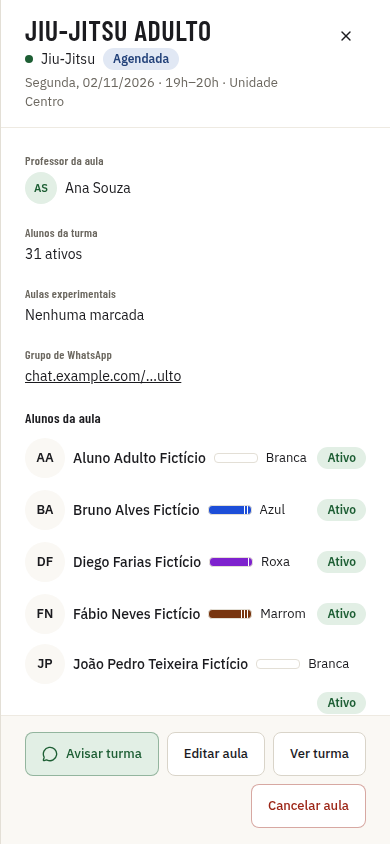
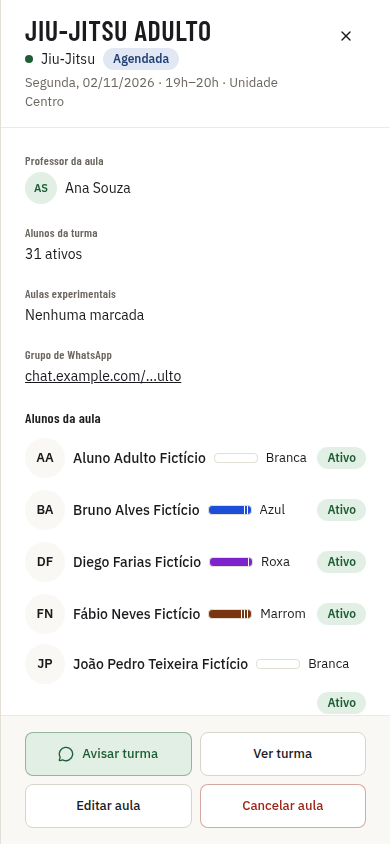
#473: Aula: painel, editar, cancelar, corrigir, avisar turma e aula avulsa no visual do canvas

diff --git a/frontend/e2e/comunicados.spec.ts b/frontend/e2e/comunicados.spec.ts
@@ -21,14 +21,14 @@ test("@critical Cancelamento de aula com aviso à turma", async ({ page }) => {
   await cancel.getByRole("button", { name: "Cancelar aula" }).click();
   await expect(page.getByText("Aviso pronto")).toBeVisible();
 
-  await page.getByRole("link", { name: "Avisar turma" }).click();
-  await expect(page.getByRole("heading", { name: "Novo comunicado", level: 1 })).toBeVisible();
-  await expect(page.getByLabel("Destino")).toHaveValue(/^CLASS:/);
-  await expect(page.getByLabel("Tipo")).toHaveValue("CANCELED_CLASS");
-  await expect(page.getByLabel("Título")).toHaveValue("Aula cancelada");
-  await expect(page.getByLabel("Texto")).toHaveValue(/Jiu-Jitsu Adulto do dia \d{2}\/\d{2}\/\d{4}, às \d{2}:\d{2}, foi cancelada/);
-  await expect(page.getByText(/^Este aviso vai para \d+ pessoas$/)).toBeVisible();
-  await page.getByRole("button", { name: "Enviar comunicado" }).click();
+  await page.getByRole("button", { name: "Avisar turma" }).click();
+  const notice = page.getByRole("dialog", { name: "Avisar turma" });
+  await expect(notice.getByLabel("Destino")).toHaveValue(/^Turma Jiu-Jitsu Adulto/);
+  await expect(notice.getByLabel("Tipo")).toHaveValue("CANCELED_CLASS");
+  await expect(notice.getByLabel("Título")).toHaveValue("Aula cancelada");
+  await expect(notice.getByLabel("Texto")).toHaveValue(/Jiu-Jitsu Adulto do dia \d{2}\/\d{2}\/\d{4}, às \d{2}:\d{2}, foi cancelada/);
+  await expect(notice.getByText(/^Vai para \d+ pessoas?/)).toBeVisible();
+  await notice.getByRole("button", { name: "Enviar agora" }).click();
 
   await expect(page.getByRole("heading", { name: "Comunicados", level: 1 })).toBeVisible();
   await expect(page.getByText("Comunicado enviado.")).toBeVisible();

diff --git a/specs/itens/473-aula-canvas.md b/specs/itens/473-aula-canvas.md
@@ -127,6 +127,11 @@ Regressão: `npm run test:cov` (frontend) → 2276 passam, 9 falham: 2 eram do i
 Desvios (parte D): `agenda-aula-avulsa` continua com `limiteCanvas` (0,52, medido a 47,5%) porque passa de 30%; o CA14 pedia sem limite, mas aceita limite com motivo; o caso `aula-editar-seguintes` não tem aula com `followingEdited` > 0 no MSW (semear uma edição mudaria as referências da agenda), então o alerta amarelo de aulas alteradas à mão fica coberto só pelo teste (CA5) e não pelo print; o limite dos seis casos não cita uma issue que o remova, porque a divergência é o fundo do fluxo (gaveta atrás) e dados do MSW, e não há issue aberta para isso; sugerir ao dono.
 Referências visuais: regeradas `agenda-aula-avulsa-{1440,390}-{claro,escuro}.png`, `agenda-painel-professor-390-{claro,escuro}.png` (rodapé em duas linhas) e novas `aula-cancelar`, `aula-editar`, `aula-editar-seguintes`, `aula-corrigir`, `aula-avisar-turma` (`-{1440,390}-{claro,escuro}.png`), todas em `frontend/visual/referencias/`.
 
+### Correção da entrega
+- e2e `comunicados.spec.ts` ("Cancelamento de aula com aviso à turma") procurava o link da página antiga; agora usa o botão "Avisar turma", a janela e "Enviar agora" — arquivos: `frontend/e2e/comunicados.spec.ts` — prova: `npx playwright test e2e/comunicados.spec.ts` → 1 passou.
+- visual `agenda-painel 390 claro/escuro` (0,01 de pixels diferentes) — referências regeradas no container — arquivos: `frontend/visual/referencias/agenda-painel-390-claro.png`, `agenda-painel-390-escuro.png` — prova: `npm run test:visual:docker -- --update-snapshots -g "agenda-painel"` → 8 passaram.
+Referências visuais: `agenda-painel-390-claro.png`, `agenda-painel-390-escuro.png`.
+
 ## Verificação
 
 ### Rodada 1 — CORRIGIR_CODIGO — 2026-11-11, estado 78c37d826e049ffd6f3499ae02f253e5842a0f77
@@ -183,7 +188,26 @@ Achados:
 ## Entrega
 
 - **O que muda:** painel da aula, editar (esta aula e as seguintes), cancelar, corrigir professor, avisar turma (janela sobre a agenda, com Enviar agora e Agendar; envio por `POST /announcements`) e Nova aula avulsa, no visual do canvas, em 1440 e 390 px, claro e escuro. Contrato (`docs/openapi.yaml`), especificação 06 e MSW atualizados no mesmo PR.
-- **Verificação:** rodada 3 OK, estado `77cb8c23b8141944fa622538d8441612c3e1329c` (o diff até o commit só toca este arquivo). `visual:canvas -- --exige`: 127 comparadas, 0 reprovadas. Vitest, typecheck e lint sem erro; ITs `AgendaLesson*IT` e contrato sem falha na rodada 2.
+- **Verificação:** rodada 4 OK, estado `c60a70aecc0b8793e597324dce4e7e1a6ca85472` (o diff até o commit só toca este arquivo e as correções de CI). `visual:canvas -- --exige`: 127 comparadas, 0 reprovadas (rodada 3). Vitest, typecheck e lint sem erro; e2e agenda e comunicados passam; ITs `AgendaLesson*IT` e contrato sem falha na rodada 2.
 - **Decisões:** D6 (avisar turma passa de página para janela sobre a agenda; a página continua para os outros usos; Agendar mostra data e hora no lugar de outra janela). Autonomia 4 para as divergências de canvas.
 - **Limitações:** seis `limiteCanvas` (`agenda-aula-avulsa` 0,52; `aula-cancelar` 0,60; `aula-editar` 0,58; `aula-editar-seguintes` 0,58; `aula-corrigir` 0,68; `aula-avisar-turma` 0,56), todos citando a #560, cujo "Pronto quando" traz a remoção. Canvas só a 1440 px nos casos da agenda, e o alerta de `followingEdited` fica fora do print (registrado na #560).
 - **Regressão:** a regressão completa local (`verify`, `test:cov`, `e2e:full`) não foi rodada nesta fase, porque a base não avançou e a rodada 3 não a repetiu; o `ci-gate` do PR roda `verify`, `test:cov` e `e2e` e é a prova de merge.
+- **Falhas no CI do commit a554fe9 (run 43129917888, PR #561), corrigidas neste commit:**
+  - `e2e` (`frontend/e2e/comunicados.spec.ts`, "Cancelamento de aula com aviso à turma"): `locator.click: Test timeout of 30000ms exceeded` esperando `getByRole('link', { name: 'Avisar turma' })`. O teste procurava o link da página antiga; a janela da D6 é um botão. Trocado para `getByRole("button")`, `dialog` "Avisar turma" e "Enviar agora".
+  - `visual` (`visual/telas.visual.ts`, `agenda-painel 390 claro` e `escuro`): `toHaveScreenshot` com 1454 e 1476 pixels diferentes (0,01). Referências `frontend/visual/referencias/agenda-painel-390-*.png` regeradas no container (`-- --update-snapshots -g "agenda-painel"`, 8 passam); só as duas desta tela mudaram.
+
+### Rodada 4 — OK — 2026-11-11, estado c60a70aecc0b8793e597324dce4e7e1a6ca85472
+
+Verificação da correção da entrega (falhas do CI do PR #561). Diff desde o commit a554fe9: `frontend/e2e/comunicados.spec.ts`, duas referências `agenda-painel-390-{claro,escuro}.png` e este arquivo.
+
+| Critério | Status | Evidência |
+|---|---|---|
+| CA1 a CA13 | PASSOU (mantido da rodada 3, reexecutado) | vitest agenda, announcements, visual/casos: 10 arquivos, 249 passam; `npm run typecheck` e `npm run lint` sem erro |
+| CA8 (fluxo Avisar turma ponta a ponta) | PASSOU | `npx playwright test e2e/comunicados.spec.ts`: 1 passou (botão, janela "Avisar turma", "Enviar agora") |
+| CA12/CA13 (agenda e2e) | PASSOU | `npx playwright test e2e/agenda.spec.ts`: 2 passaram |
+| CA14 | PASSOU (mantido da rodada 3) | `agenda-painel` 390 claro/escuro: `npm run test:visual:docker -- -g "agenda-painel"` 8 passaram com as referências regeradas; só as referências do painel desta tela mudaram |
+
+Comandos: os acima. Achados do CI (e2e e visual) resolvidos. Back-end e regressão completa não rodados de novo: nada mudou neles; o `ci-gate` do PR é a prova de merge.
+Achados obrigatórios: nenhum.
+Achados:
+- sugestão — manter na descrição do PR os seis `limiteCanvas` (#560) e que o canvas das janelas é só 1440 px.
